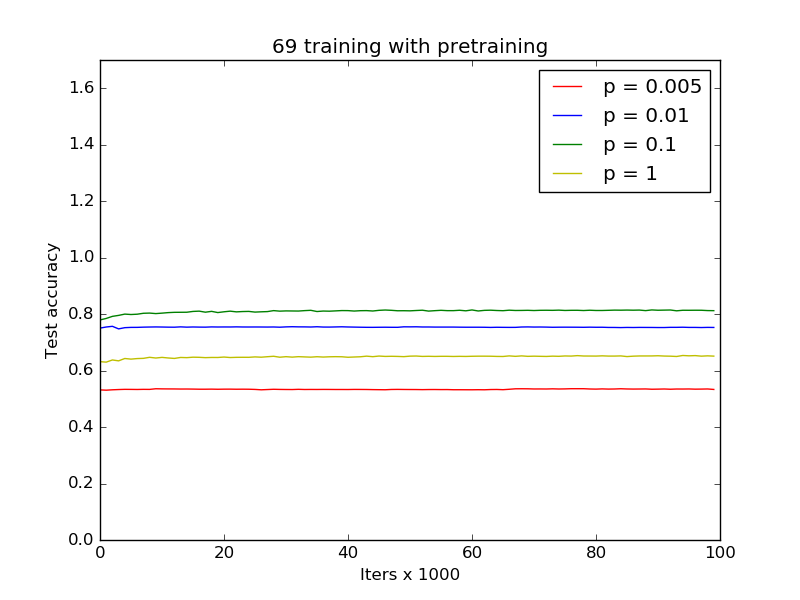
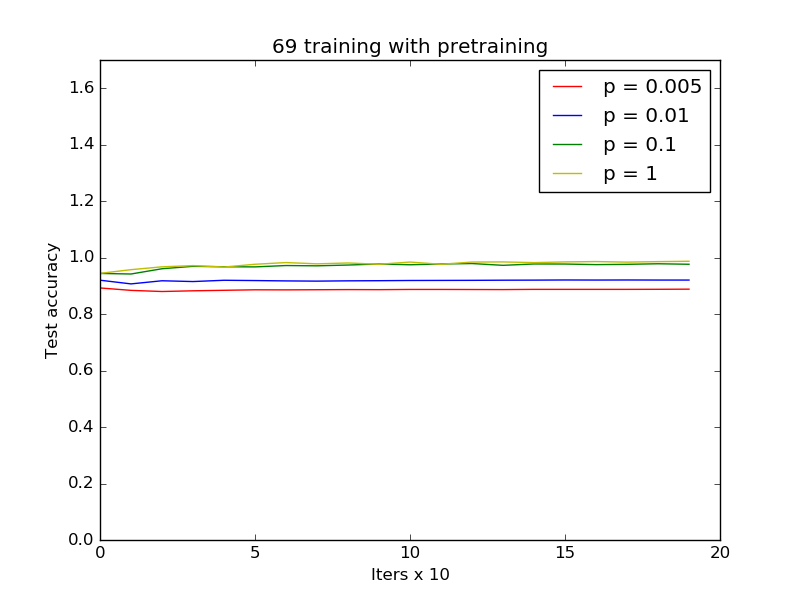
Fixed bugs

diff --git a/Machinelearning/MNIST_conv/conv_classif.py b/Machinelearning/MNIST_conv/conv_classif.py
@@ -5,13 +5,6 @@ from copy import deepcopy
 import matplotlib.pyplot as plt
 
 
-import tflearn
-from tflearn.layers.core import input_data, dropout, fully_connected
-from tflearn.layers.conv import conv_2d, max_pool_2d
-from tflearn.layers.normalization import local_response_normalization
-from tflearn.layers.estimator import regression
-
-
 def onehot(labels):
     labels_arr = np.array(labels)
     onehotlabs = np.zeros((len(labels), np.max(labels) + 1))
@@ -189,10 +182,13 @@ def main():
     TL_69_optim_freeze_conv = tf.train.AdamOptimizer(0.001).minimize(CE_69,
                                                                     var_list=fc_weights_69_TL)
 
+    # 4) Train network on 69 dataset n times with finetune
+    finetune_69_optim = tf.train.AdamOptimizer(0.0003).minimize(CE_69)
+
     # Execution
     n_rep = 1
     batchSize = 100
-    n_iters = 500
+    n_iters = 200
     every_n_samples = 1000
     every_n_iters = every_n_samples/batchSize
 
@@ -317,8 +313,7 @@ def main():
     # === Do the 69 with pretrained conv layers (FINETUNED) ==========
     # ================================================================
 
-    # xx) Train network on 69 dataset n times with finetune
-    finetune_69_optim = tf.train.AdamOptimizer(0.0003).minimize(CE_69)
+
 
     print "Starting 69 training with pretrained conv layers, non-frozen"
 
@@ -369,10 +364,12 @@ def main():
     # ==== Modify the network with dropout ========================
     # =============================================================
 
+
+
     # Dropout from the conv features
     fc_reshape_DO = tf.nn.dropout(fc_reshape, keep_prob=0.5)
 
-    l_fc_rs = tf.nn.relu(tf.matmul(fc_reshape_DO, w_fc_69) + b_fc_69)
+    l_fc_rs = tf.nn.relu(tf.matmul(fc_reshape_DO, w_fc_rs) + b_fc_rs)
 
     fc_rs_DO = tf.nn.dropout(l_fc_rs, keep_prob=0.5)
 
